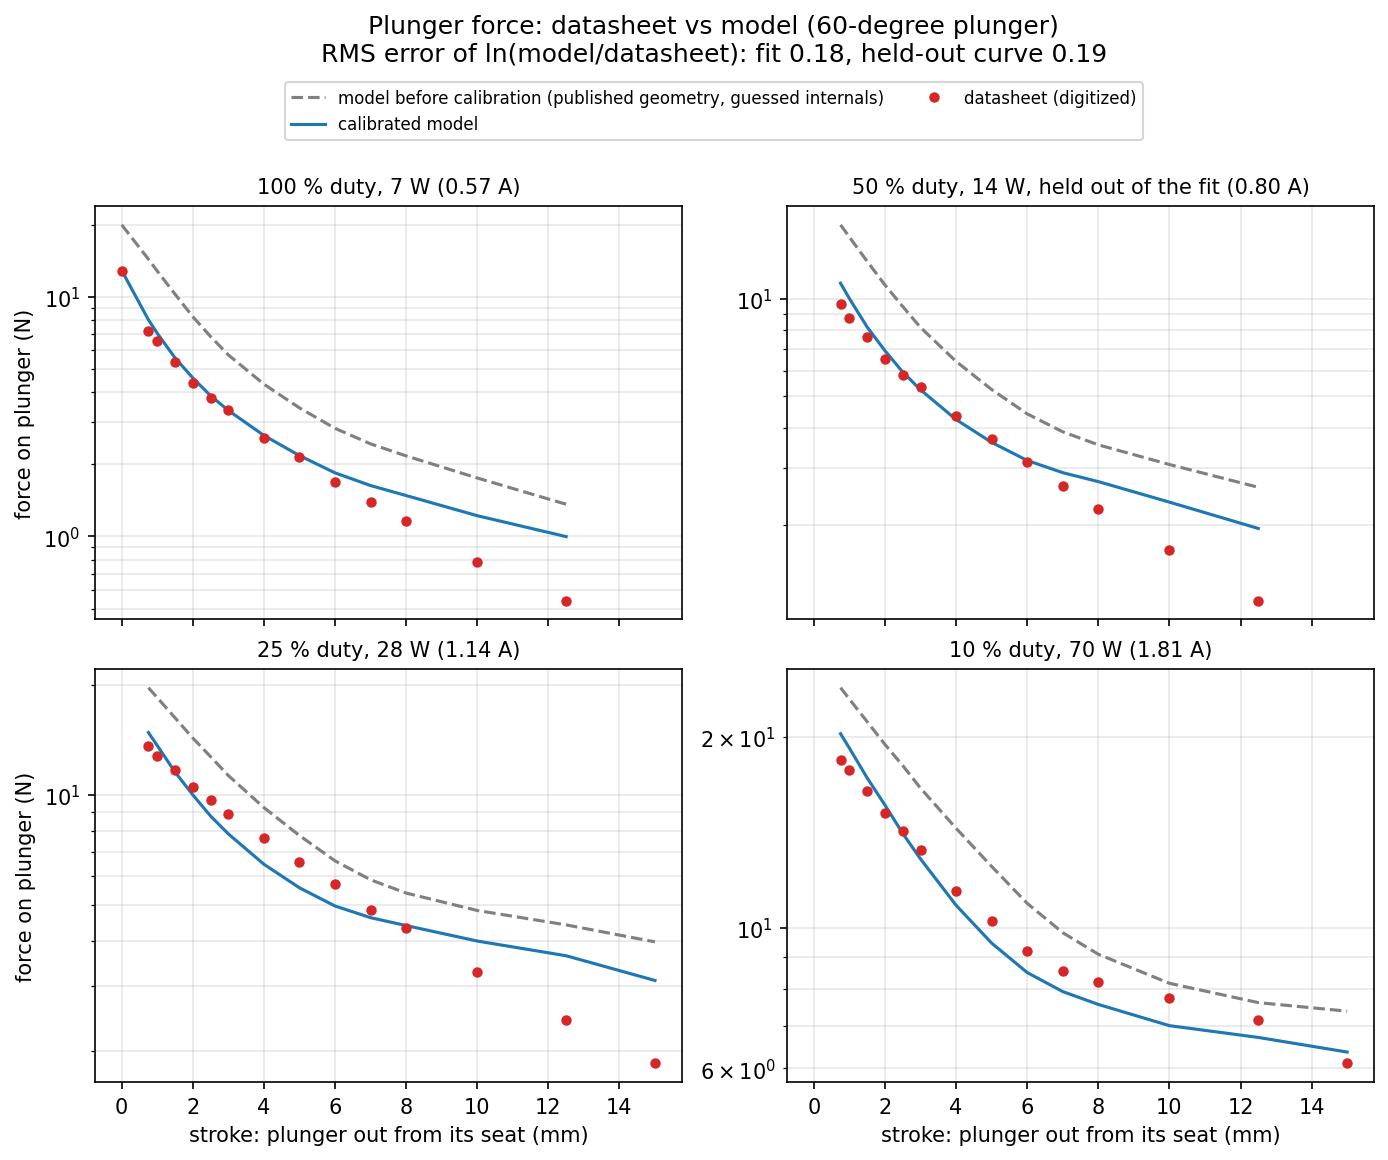
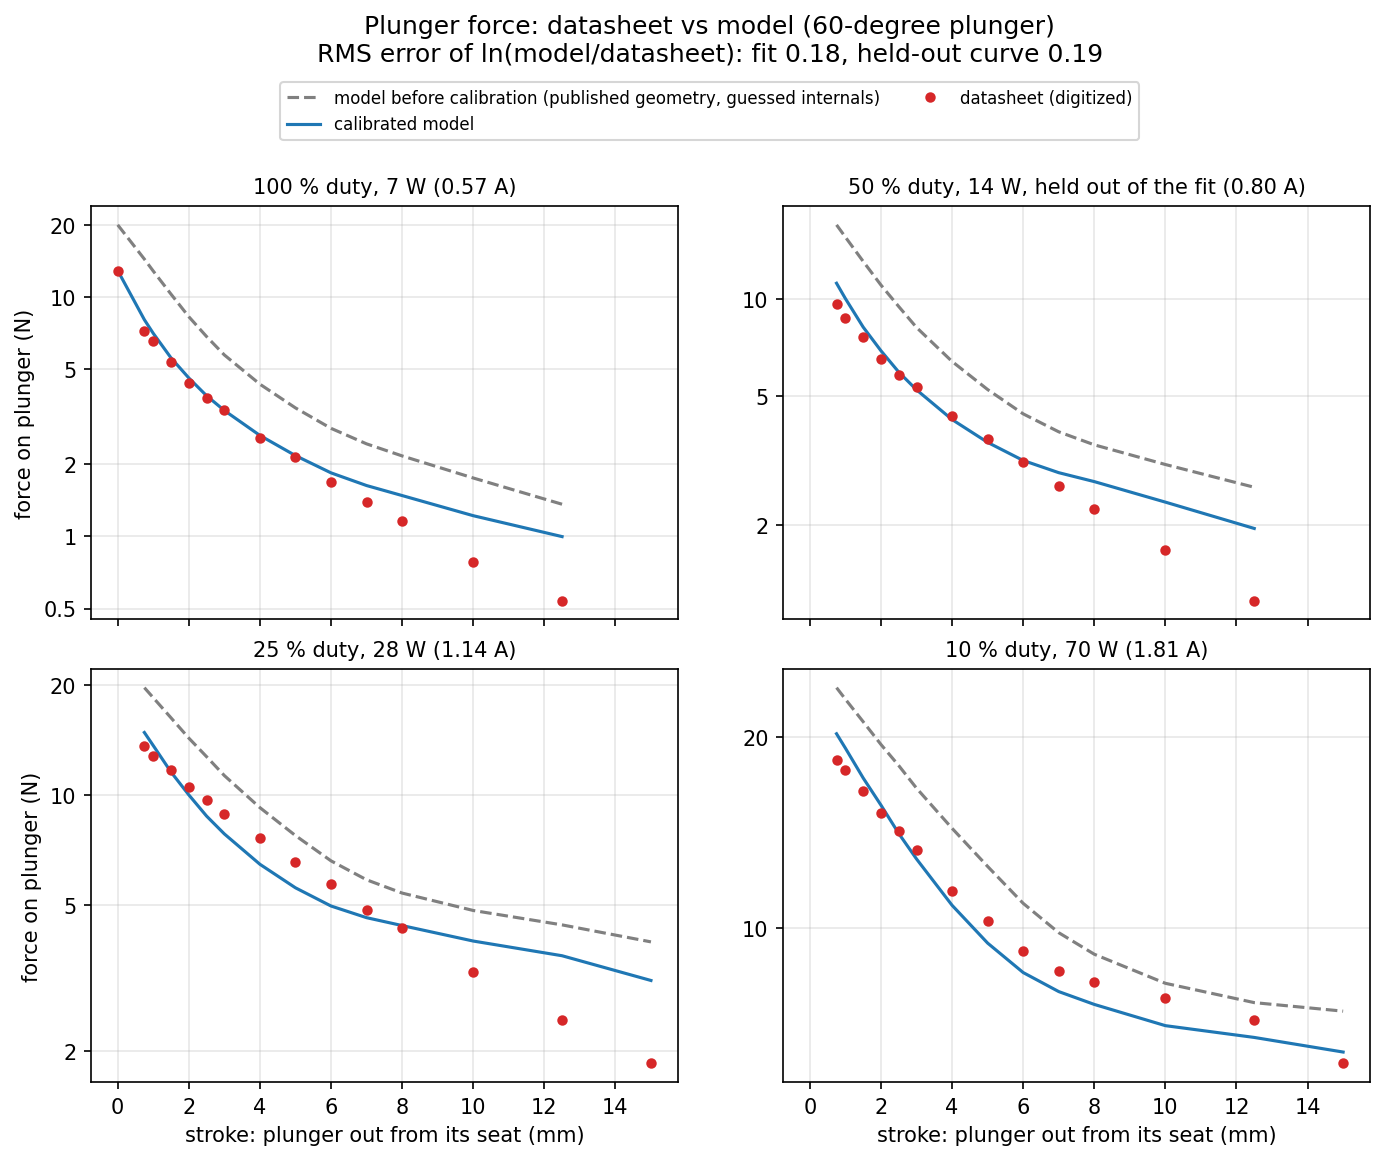
Label the logarithmic force axes with plain numbers.

diff --git a/simulations/ledex_femm/plot_results.py b/simulations/ledex_femm/plot_results.py
@@ -69,6 +69,9 @@ def select(rows, **conds):
 
 def save(fig, name, folder=OUT):
     os.makedirs(folder, exist_ok=True)
+    for ax in fig.axes:
+        if ax.get_yscale() == "log":
+            plain_log(ax)
     path = os.path.join(folder, name)
     fig.savefig(path, dpi=150, bbox_inches="tight")
     plt.close(fig)
@@ -83,6 +86,17 @@ def load_band():
     for r in read_csv(path):
         band.setdefault((r["gap_mm"], round(r["current_A"], 3)), []).append(r["target_force_g"])
     return {k: (min(v), max(v)) for k, v in band.items()}
+
+
+def plain_log(ax):
+    """Log y axis with plain-number labels at 1-2-5 steps (0.05, 0.1, 0.2, 0.5, 1, 2, 5, ...)."""
+    from matplotlib.ticker import FixedLocator, FuncFormatter, NullLocator
+    lo, hi = ax.get_ylim()
+    ticks = [m * 10.0 ** e for e in range(-4, 4) for m in (1, 2, 5) if lo / 1.01 <= m * 10.0 ** e <= hi * 1.01]
+    ax.yaxis.set_major_locator(FixedLocator(ticks))
+    ax.yaxis.set_minor_locator(NullLocator())
+    ax.yaxis.set_major_formatter(FuncFormatter(lambda v, _: "{:g}".format(v)))
+    ax.grid(True, axis="y", which="major", alpha=0.3)
 
 
 def plot_force_vs_gap(rows, band):
